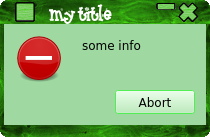
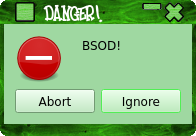
display results of colour chooser from desktopfile

diff --git a/YadQt/src/main.cpp b/YadQt/src/main.cpp
@@ -6,8 +6,8 @@ int main(int argc, char **argv)
 {
 	QApplication			app(argc,argv);
 
-	InfoBoxClass			info(&app);
 	DataClass			data;
+	InfoBoxClass			info(&app,&data);
 	InputDialogsClass	input(&app,&data);
 	FormsClass			forms(&app,&data);
 	ListBoxClass			list(&app,&data);
@@ -69,7 +69,6 @@ int main(int argc, char **argv)
 					case FATAL:
 						{
 							data.setButtons();
-							info.data=&data;
 							retval=info.showDialog();
 						}
 						break;
@@ -120,7 +119,6 @@ int main(int argc, char **argv)
 	else
 		{
 			data.boxType=ABOUTQT;
-			info.data=&data;
 			retval=info.showDialog();
 		}
 
@@ -141,13 +139,13 @@ int main(int argc, char **argv)
 			case QMessageBox::Yes:
 			case QMessageBox::YesToAll:
 			case QMessageBox::Retry:
+			case QMessageBox::Ignore:
 				retval=0;
 				break;
 			case QMessageBox::Cancel:
 			case QMessageBox::No:
 			case QMessageBox::NoToAll:
 			case QMessageBox::Abort:
-			case QMessageBox::Ignore:
 				retval=1;
 				break;
 			default:

diff --git a/YadQt/src/OrphanDialogClass.cpp b/YadQt/src/OrphanDialogClass.cpp
@@ -21,15 +21,15 @@
 #include "OrphanDialogClass.h"
 #include<QColor>
 
-OrphanDialogClass::~OrphanDialogClass()
-{
-}
-
 OrphanDialogClass::OrphanDialogClass(QApplication *app,DataClass *data)
 {
 	this->data=data;
 }
-//QColor QColorDialog::getColor(const QColor &initial = Qt::white, QWidget *parent = nullptr, const QString &title = QString(), ColorDialogOptions options = ColorDialogOptions())
+
+OrphanDialogClass::~OrphanDialogClass()
+{
+}
+
 unsigned OrphanDialogClass::getColour(void)
 {
 	QColor	initcol(this->data->defaultText);

diff --git a/YadQt/src/FormsClass.h b/YadQt/src/FormsClass.h
@@ -36,11 +36,10 @@ class FormsClass
 		FormsClass(QApplication *app,DataClass *data);
 		~FormsClass();
 
-		DataClass	*data;
-
-		unsigned		getForm(void);
+		unsigned					getForm(void);
 
 	private:
+		DataClass				*data;
 		miniPrefsReturnStruct	miniPrefsDialog(QStringList items);
 
 };

diff --git a/YadQt/src/InfoBoxClass.h b/YadQt/src/InfoBoxClass.h
@@ -27,13 +27,13 @@
 class InfoBoxClass
 {
 	public:
-		InfoBoxClass(QApplication *app);
+		InfoBoxClass(QApplication *app,DataClass *data);
 		~InfoBoxClass();
-
-		DataClass	*data;
 
 		unsigned		showDialog(void);
 
+	private:
+		DataClass	*data;
 };
 
 #endif

diff --git a/YadQt/src/InputDialogsClass.h b/YadQt/src/InputDialogsClass.h
@@ -29,10 +29,12 @@ class InputDialogsClass
 		InputDialogsClass(QApplication *app,DataClass *data);
 		~InputDialogsClass();
 
-		DataClass	*data;
-
 		unsigned		getTextInput(void);
 		unsigned		getItem(void);
+
+	private:
+		DataClass	*data;
+
 };
 
 #endif

diff --git a/YadQt/src/InfoBoxClass.cpp b/YadQt/src/InfoBoxClass.cpp
@@ -20,8 +20,9 @@
 
 #include "InfoBoxClass.h"
 
-InfoBoxClass::InfoBoxClass(QApplication *app)
+InfoBoxClass::InfoBoxClass(QApplication *app,DataClass *data)
 {
+	this->data=data;
 }
 
 InfoBoxClass::~InfoBoxClass()

diff --git a/README.md b/README.md
@@ -30,7 +30,7 @@ Options:
   --type <aboutqt>             Box Type.
 ````
 Examples:<br>
-yadqt --type=fatal -t "my title" -b "some info"  -d "some info" --buttons="abort" --btntoerr 2>/dev/pts/2;echo $?<br>
+yadqt --type=fatal -t "DANGER!" -b "BSOD!" --buttons="abort|Ignore" --btntoerr 2>/dev/pts/2;echo $?<br>
 ![fatal](screenshots/fatal.png "yadqt --type=fatal")<br>
 
 yadqt --type=aboutqt<br>
@@ -41,7 +41,7 @@ yadqt --type=getitem -t "my title" -b "some input"  -d "one|three|two|end" --btn
 yadqt --type=gettext -t "my title" -b "some input"  -d "default input txt";echo $?<br>
 ![fatal](screenshots/gettext.png "yadqt --type=gettext")<br>
 
-yadqt --type=info -t "my title" -b "some info"  -d "some info" --buttons="abort" --btntoerr 2>/dev/pts/2;echo $?<br>
+yadqt --type=info -b "Some info for you" --buttons="ok" --btntoerr 2>/dev/pts/2;echo $?<br>
 ![fatal](screenshots/info.png "yadqt --type=info")<br>
 
 yadqt --type=form -t "Simple Form" -b "Entry 1|Box Two|Data 3|Last Box" --btntoerr --default="default 1|box 2|box n"  2>/dev/pts/2;echo $?<br>
